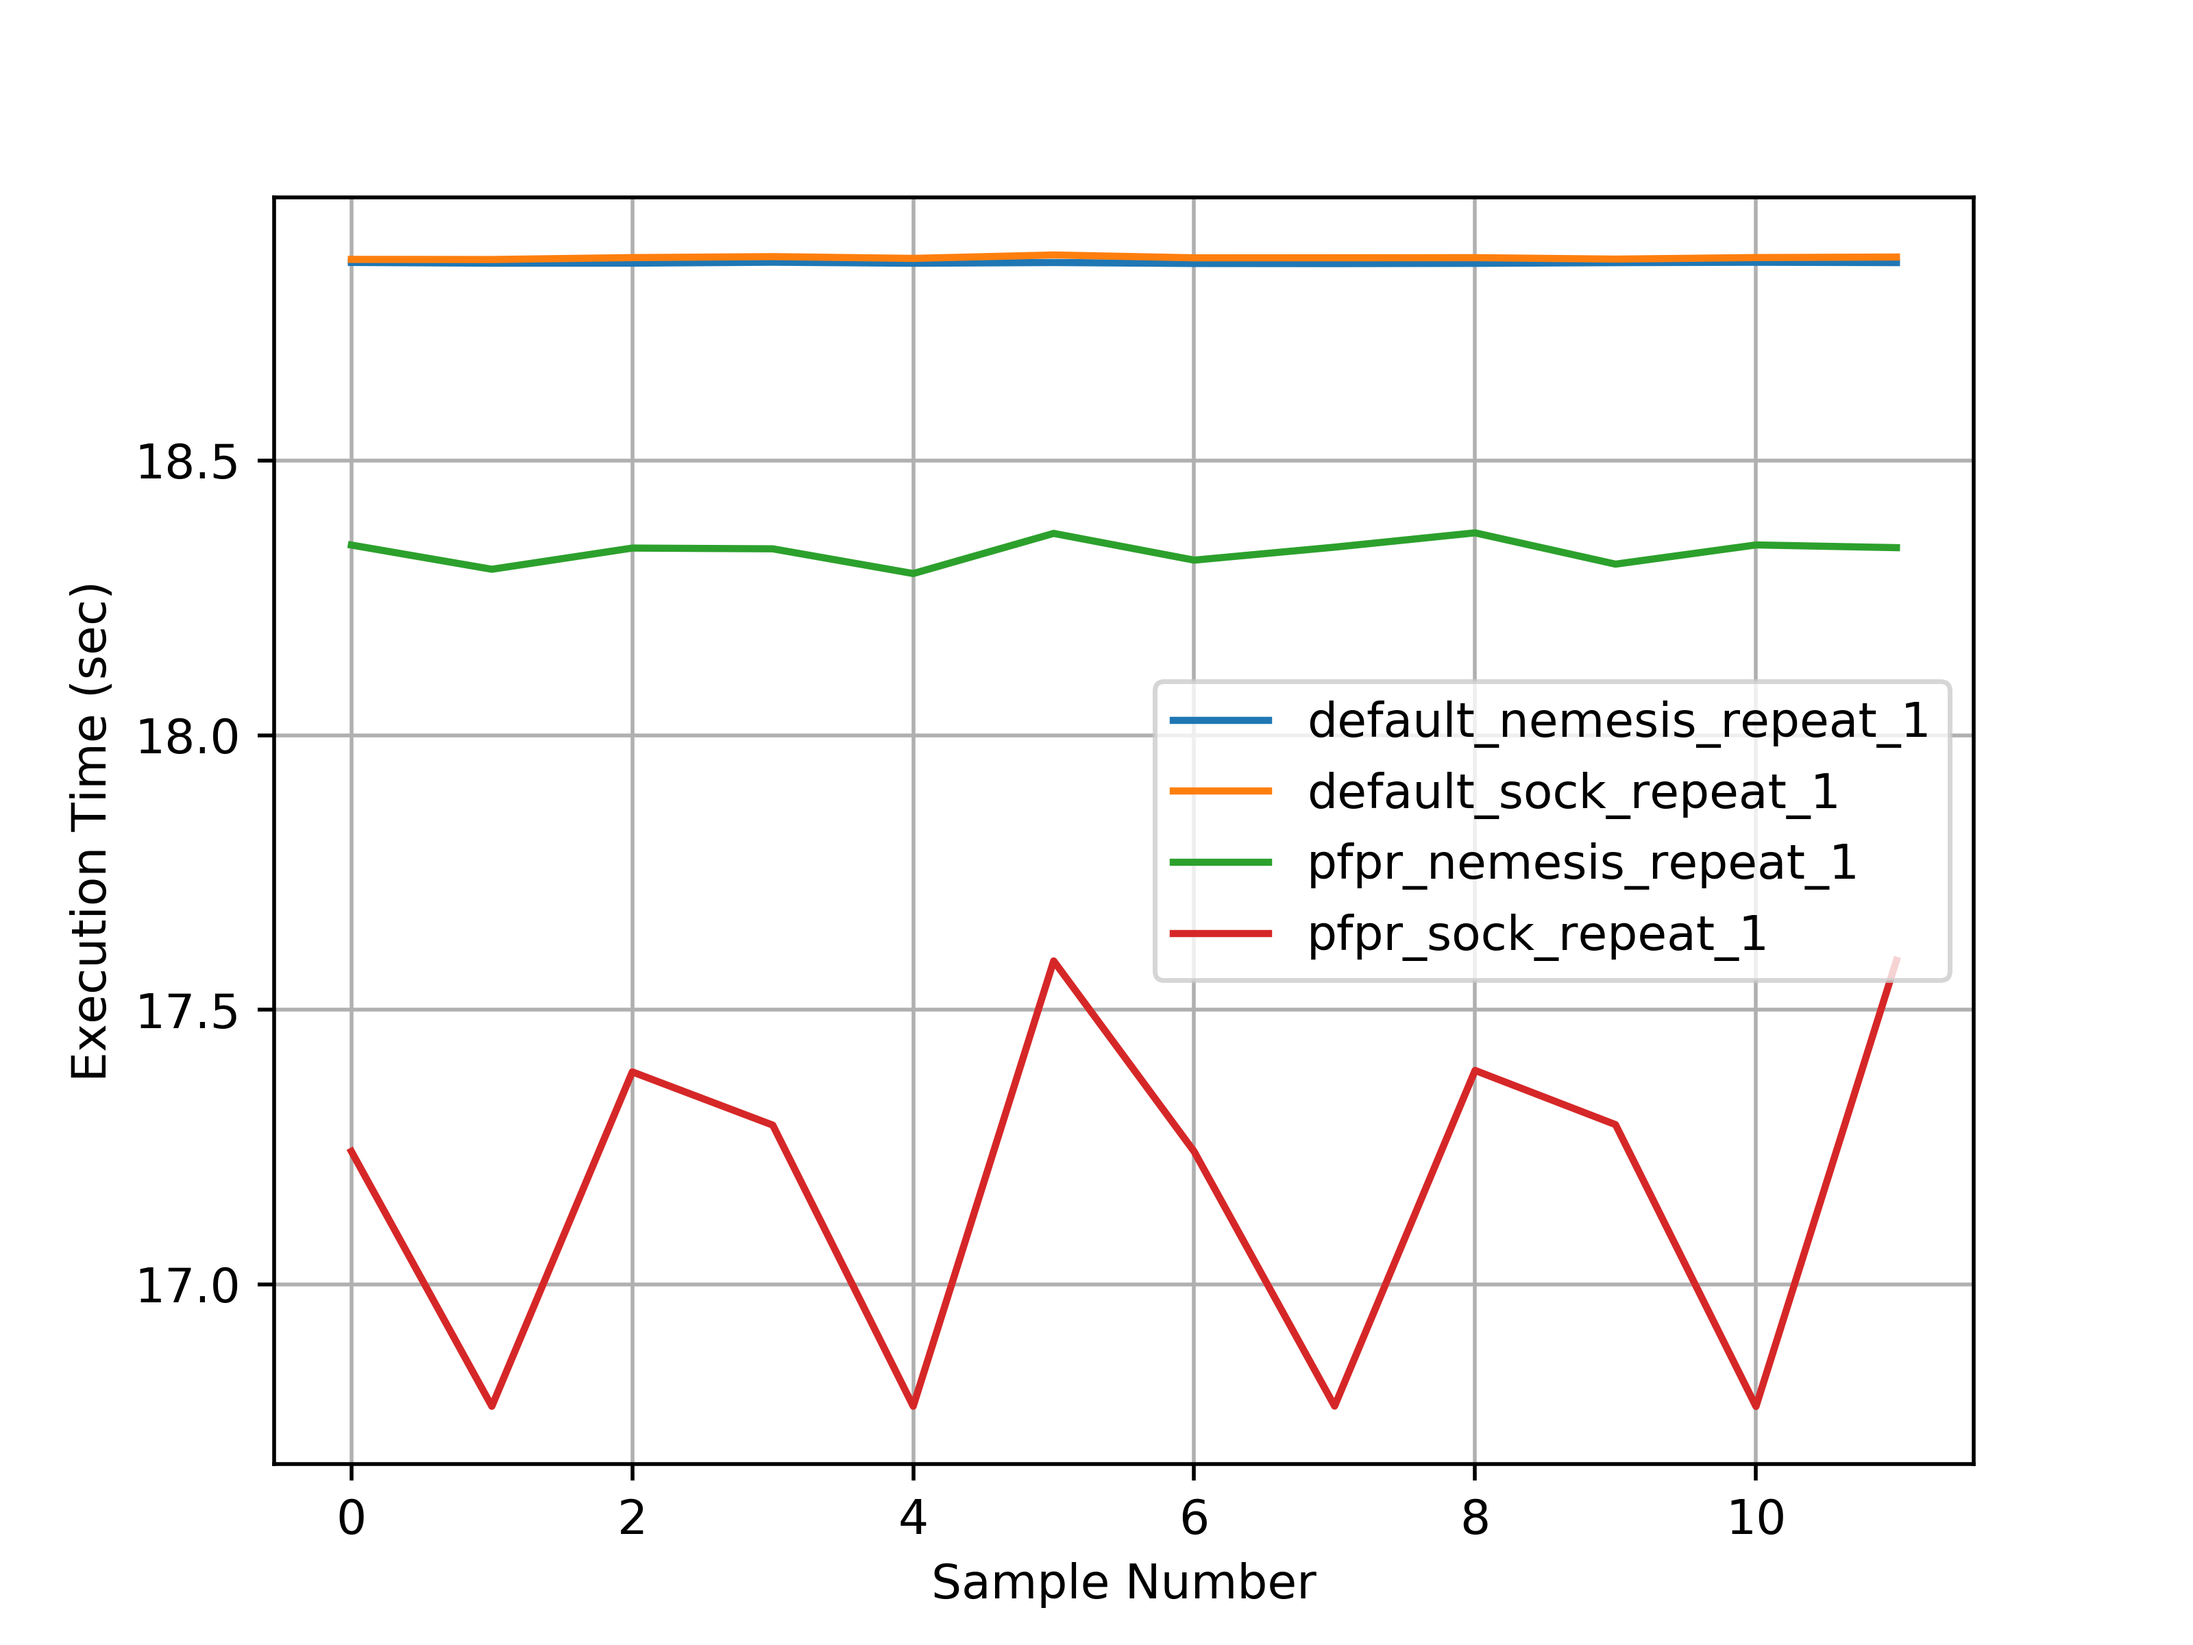
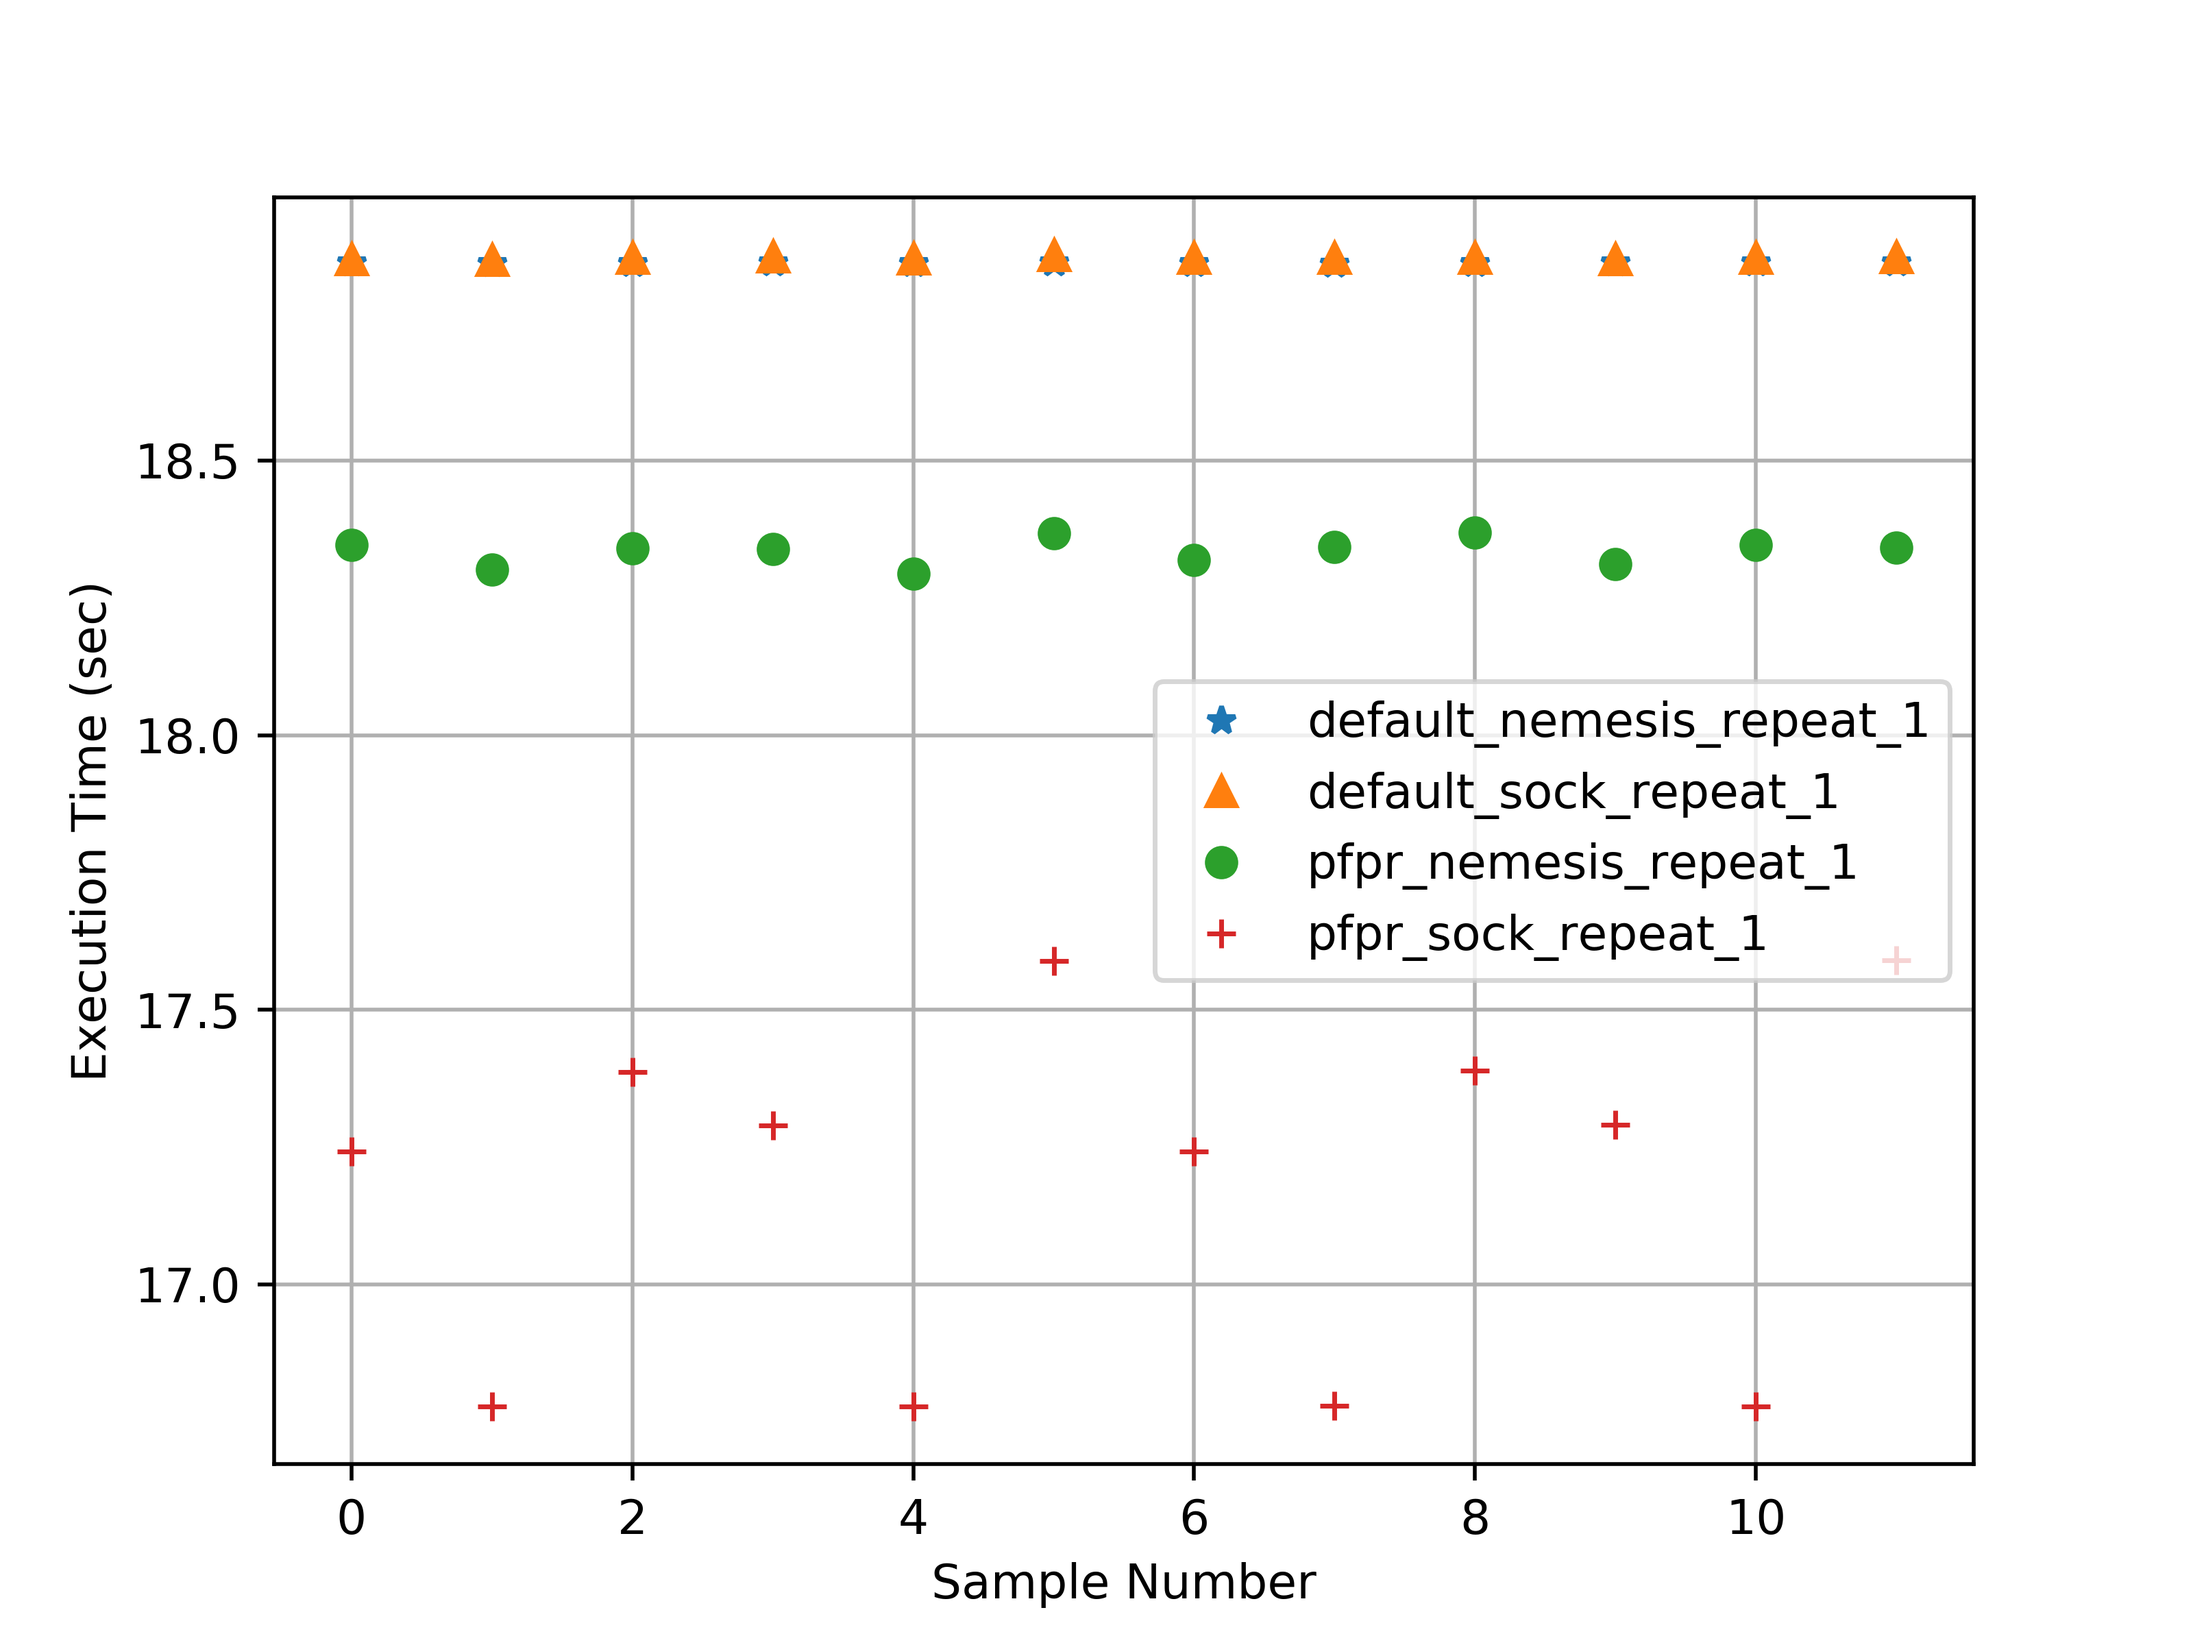
chart_benchv9_default_pfpr_nemesis_sock_change_view

diff --git a/exp/exp_benchv9/nemesis_vs_sock_vs_pfpr/comm_3_100_repeat/nemesis_vs_sock_vs_pfpr_nemesis_vs_pfpr_sock/chart_16.py b/exp/exp_benchv9/nemesis_vs_sock_vs_pfpr/comm_3_100_repeat/nemesis_vs_sock_vs_pfpr_nemesis_vs_pfpr_sock/chart_16.py
@@ -32,10 +32,10 @@ with open('pfpr_sock/pfpr_sock_16.log','r') as csvfile:
         y4.append(float(row[0]))
 
 
-plt.plot(y1, label='default_nemesis_repeat_16')
-plt.plot(y2, label='default_sock_repeat_16')
-plt.plot(y3, label='pfpr_nemesis_repeat_16')
-plt.plot(y4, label='pfpr_sock_repeat_16')
+plt.plot(y1, '*', label='default_nemesis_repeat_16')
+plt.plot(y2, '^', label='default_sock_repeat_16')
+plt.plot(y3, 'o', label='pfpr_nemesis_repeat_16')
+plt.plot(y4, '+', label='pfpr_sock_repeat_16')
 
 plt.xlabel('Sample Number')
 plt.ylabel('Execution Time (sec)')

diff --git a/exp/exp_benchv9/nemesis_vs_sock_vs_pfpr/comm_3_100_repeat/nemesis_vs_sock_vs_pfpr_nemesis_vs_pfpr_sock/chart_32.py b/exp/exp_benchv9/nemesis_vs_sock_vs_pfpr/comm_3_100_repeat/nemesis_vs_sock_vs_pfpr_nemesis_vs_pfpr_sock/chart_32.py
@@ -32,10 +32,10 @@ with open('pfpr_sock/pfpr_sock_32.log','r') as csvfile:
         y4.append(float(row[0]))
 
 
-plt.plot(y1, label='default_nemesis_repeat_32')
-plt.plot(y2, label='default_sock_repeat_32')
-plt.plot(y3, label='pfpr_nemesis_repeat_32')
-plt.plot(y4, label='pfpr_sock_repeat_32')
+plt.plot(y1, '*', label='default_nemesis_repeat_32')
+plt.plot(y2, '^', label='default_sock_repeat_32')
+plt.plot(y3, 'o', label='pfpr_nemesis_repeat_32')
+plt.plot(y4, '+', label='pfpr_sock_repeat_32')
 
 plt.xlabel('Sample Number')
 plt.ylabel('Execution Time (sec)')

diff --git a/exp/exp_benchv9/nemesis_vs_sock_vs_pfpr/comm_3_100_repeat/nemesis_vs_sock_vs_pfpr_nemesis_vs_pfpr_sock/chart_64.py b/exp/exp_benchv9/nemesis_vs_sock_vs_pfpr/comm_3_100_repeat/nemesis_vs_sock_vs_pfpr_nemesis_vs_pfpr_sock/chart_64.py
@@ -32,10 +32,10 @@ with open('pfpr_sock/pfpr_sock_64.log','r') as csvfile:
         y4.append(float(row[0]))
 
 
-plt.plot(y1, label='default_nemesis_repeat_64')
-plt.plot(y2, label='default_sock_repeat_64')
-plt.plot(y3, label='pfpr_nemesis_repeat_64')
-plt.plot(y4, label='pfpr_sock_repeat_64')
+plt.plot(y1, '*', label='default_nemesis_repeat_64')
+plt.plot(y2, '^', label='default_sock_repeat_64')
+plt.plot(y3, 'o', label='pfpr_nemesis_repeat_64')
+plt.plot(y4, '+',label='pfpr_sock_repeat_64')
 
 plt.xlabel('Sample Number')
 plt.ylabel('Execution Time (sec)')

diff --git a/exp/exp_benchv9/nemesis_vs_sock_vs_pfpr/comm_3_100_repeat/nemesis_vs_sock_vs_pfpr_nemesis_vs_pfpr_sock/chart_1.py b/exp/exp_benchv9/nemesis_vs_sock_vs_pfpr/comm_3_100_repeat/nemesis_vs_sock_vs_pfpr_nemesis_vs_pfpr_sock/chart_1.py
@@ -32,10 +32,10 @@ with open('pfpr_sock/pfpr_sock_1.log','r') as csvfile:
         y4.append(float(row[0]))
 
 
-plt.plot(y1, label='default_nemesis_repeat_1')
-plt.plot(y2, label='default_sock_repeat_1')
-plt.plot(y3, label='pfpr_nemesis_repeat_1')
-plt.plot(y4, label='pfpr_sock_repeat_1')
+plt.plot(y1, '*', label='default_nemesis_repeat_1')
+plt.plot(y2, '^', label='default_sock_repeat_1')
+plt.plot(y3, 'o', label='pfpr_nemesis_repeat_1')
+plt.plot(y4, '+', label='pfpr_sock_repeat_1')
 
 plt.xlabel('Sample Number')
 plt.ylabel('Execution Time (sec)')

diff --git a/exp/exp_benchv9/nemesis_vs_sock_vs_pfpr/comm_3_100_repeat/nemesis_vs_sock_vs_pfpr_nemesis_vs_pfpr_sock/chart_2.py b/exp/exp_benchv9/nemesis_vs_sock_vs_pfpr/comm_3_100_repeat/nemesis_vs_sock_vs_pfpr_nemesis_vs_pfpr_sock/chart_2.py
@@ -32,10 +32,10 @@ with open('pfpr_sock/pfpr_sock_2.log','r') as csvfile:
         y4.append(float(row[0]))
 
 
-plt.plot(y1, label='default_nemesis_repeat_2')
-plt.plot(y2, label='default_sock_repeat_2')
-plt.plot(y3, label='pfpr_nemesis_repeat_2')
-plt.plot(y4, label='pfpr_sock_repeat_2')
+plt.plot(y1, '*', label='default_nemesis_repeat_2')
+plt.plot(y2, '^', label='default_sock_repeat_2')
+plt.plot(y3, 'o', label='pfpr_nemesis_repeat_2')
+plt.plot(y4, '+', label='pfpr_sock_repeat_2')
 
 plt.xlabel('Sample Number')
 plt.ylabel('Execution Time (sec)')

diff --git a/exp/exp_benchv9/nemesis_vs_sock_vs_pfpr/comm_3_100_repeat/nemesis_vs_sock_vs_pfpr_nemesis_vs_pfpr_sock/chart_4.py b/exp/exp_benchv9/nemesis_vs_sock_vs_pfpr/comm_3_100_repeat/nemesis_vs_sock_vs_pfpr_nemesis_vs_pfpr_sock/chart_4.py
@@ -32,10 +32,10 @@ with open('pfpr_sock/pfpr_sock_4.log','r') as csvfile:
         y4.append(float(row[0]))
 
 
-plt.plot(y1, label='default_nemesis_repeat_4')
-plt.plot(y2, label='default_sock_repeat_4')
-plt.plot(y3, label='pfpr_nemesis_repeat_4')
-plt.plot(y4, label='pfpr_sock_repeat_4')
+plt.plot(y1, '*', label='default_nemesis_repeat_4')
+plt.plot(y2, '^', label='default_sock_repeat_4')
+plt.plot(y3, 'o', label='pfpr_nemesis_repeat_4')
+plt.plot(y4, '+', label='pfpr_sock_repeat_4')
 
 plt.xlabel('Sample Number')
 plt.ylabel('Execution Time (sec)')

diff --git a/exp/exp_benchv9/nemesis_vs_sock_vs_pfpr/comm_3_100_repeat/nemesis_vs_sock_vs_pfpr_nemesis_vs_pfpr_sock/chart_8.py b/exp/exp_benchv9/nemesis_vs_sock_vs_pfpr/comm_3_100_repeat/nemesis_vs_sock_vs_pfpr_nemesis_vs_pfpr_sock/chart_8.py
@@ -32,10 +32,10 @@ with open('pfpr_sock/pfpr_sock_8.log','r') as csvfile:
         y4.append(float(row[0]))
 
 
-plt.plot(y1, label='default_nemesis_repeat_8')
-plt.plot(y2, label='default_sock_repeat_8')
-plt.plot(y3, label='pfpr_nemesis_repeat_8')
-plt.plot(y4, label='pfpr_sock_repeat_8')
+plt.plot(y1, '*', label='default_nemesis_repeat_8')
+plt.plot(y2, '^', label='default_sock_repeat_8')
+plt.plot(y3, 'o', label='pfpr_nemesis_repeat_8')
+plt.plot(y4, '+', label='pfpr_sock_repeat_8')
 
 plt.xlabel('Sample Number')
 plt.ylabel('Execution Time (sec)')
